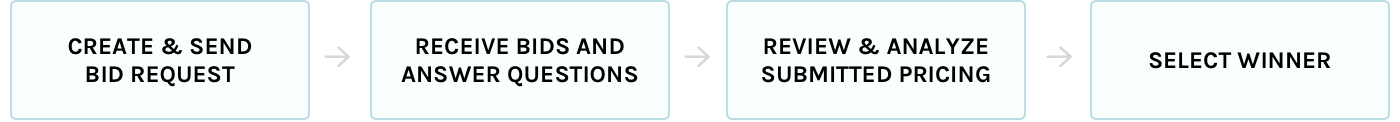
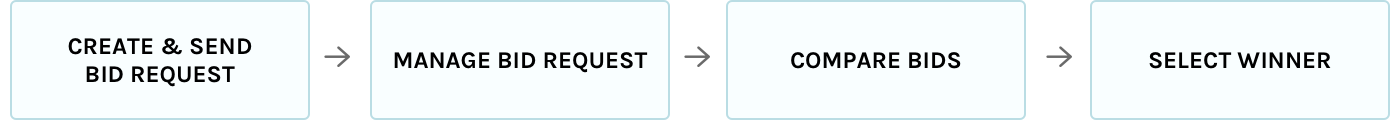
Copy

diff --git a/rigup.html b/rigup.html
@@ -8,7 +8,7 @@
 	<link rel="stylesheet" href="css/style.css">
 	<link rel="stylesheet" href="https://cdnjs.cloudflare.com/ajax/libs/animate.css/3.5.2/animate.min.css">
 	<link rel="stylesheet" href="css/font-awesome-4.6.3/css/font-awesome.min.css">
-	<link href="https://fonts.googleapis.com/css?family=Libre+Franklin:300,400,900" rel="stylesheet">
+	<link href="https://fonts.googleapis.com/css?family=Libre+Franklin:300,400,700,900" rel="stylesheet">
 </head>
 
 <body>
@@ -37,36 +37,51 @@
 
 		<div id="container">
 			<h3>Background</h3>
-			<p>RigUp is an oilfield services marketplace that connects engineers & vendors for an easier bidding process. I joined RigUp as the first designer and eventually led a small design team throughout the entire product development process.</p>
+										<img src="img/bidding/process.png">	
+			<p class="caption center">Entire Bidding Process</p>
+			<section><p>RigUp is an oilfield services marketplace that connects engineers & vendors for an easier bidding process. I joined RigUp as the first designer and eventually led a small design team throughout the entire product development process.</p>
+
 			<p>We were a small (but rapidly growing) company, which meant I had to wear a lot hats. I tackled everything from front-end implementation, conducting usability tests, and driving marketing and branding design.</p>
+			</section>
 
 			<a id="process"></a>
-			<h2>Bidding Process Redesign</h2>
+			<h2>Increased bid creation conversion rates</h2>
 
-			<h3>Problem</h3>
-			<!--<img src="img/bidding/process.png">-->	
-			<p>We noticed there was a downward trend in the amount of bid requests that were being sent out the past three months.</p>
-			<p>The initial bidding process was a 6 step wizard interface that was in need of a redesign. The UI was a result of technical and product debt; we were implementing MVP after MVP into the process without any design consideration.</p>
+			<h3>Background</h3>
+				<img src="img/bidding/old_process.png">	
+				<p class="caption center">Bid Creation Process</p>
+			
+			<section><p>The bidding process was in need of a redesign. The UX was a result of technical and product debt; we were implementing MVP after MVP into the process without any design consideration. 
+</p></section>
+<section>
 		
-		<img src="img/bidding/old_process.png"></div>
+			<h3>Problem</h3>
+			
+			<h2 class="center problem">The bid creation process <span class="strong">only had a 46.15% conversion rate.</span></h2> By identifying the highest dropoffs points, I was able to guide my research in where to investigate.</p>
+						<img src="img/bidding/funnel.png">
+							<p class="caption center">The initial steps had the highest dropoff rates.</p>
+</div>
 
 		<div id="container">
 			<h3>Research Insights</h3>
-			<p>Before diving deep into ideation, I wanted to conduct some research. Through usability testing sessions, talking with users and data analytics, I discovered a couple of insights about the bidding process.</p>
-			<ul>
-			<li class="strong">Heavy initial cognitive load</li>
-			<p>Step one is filled with many inputs and forms for a user to process all at once.</p>
-			<li class="strong">Low conversion rates</li>
-			<p>The process only had a 46.15% conversion rate. I identified the highest dropoffs points to help guide my research.</p>
-			<img src="img/bidding/funnel.png">
-			<li class="strong">Lack of context</li>
-			<p>The isolated step UI did not group the information intuitively; causing users to go back and forth between steps to reference information.</p>
-			</ul>
+			<p>Through usability testing sessions, talking with users and data analytics, I discovered a couple of insights about the bidding process.</p>
+	
+			<p class="strong">Heavy initial cognitive load</p>
+							<img src="img/bidding/step1_old.png">	
+														<p class="caption center">Step One</p>
+
+
+			<p>Step one was initially overwhelming - users were being confronted with many inputs. The majority of the testing session were spent on users reading through all the information before continuing to the rest of the process.</p>
+			<p class="strong">Lack of context</p>
+			<p>The isolated step UI did not group the information intuitively; which caused users to go back and forth between steps to reference information.</p>
+					<img src="img/bidding/cards.png"> 
+	<p class="caption center">Card Sorting Test</p>
+	<p>Through card sorting tests, I was able to better understand how users categorize the information.</p>
+		
 <section>
 	<h3>Ideation</h3>
-	<p>Due to a technical constraint, I couldn't change the functionality of the vendor selection - meaning it had to remain a separate step.
-		<img src="img/bidding/cards.png"> 
-		<img src="img/bidding/flow.png"> 
+	<p>Due to a technical constraint, I couldn't change the functionality of the vendor selection - meaning it had to remain a separate step. To overcome this tradeoff, I designed user flows that allowed the user to forego this step altogether.
+		<img src="img/bidding/flow.png">
 		<img src="img/bidding/ideate.png"> 
 
 </section>
@@ -100,8 +115,7 @@
 <section>
 <div id="container">
 <h3>Results</h3>
-<p>In the following month, the amount of bid requests remained about the same. However, the conversion rate increased to 85.66%.
-Two months after implementation, bid requests increased and we were on the right track to meeting our quarterly GMV goal. Additional unanticipated success included increased user retention and less usability questions asked to our customer support team about our bidding process.</p>
+<p>The conversion rate increased to 85.66%. Two months after implementation, bid requests increased and we were on the right track to meeting our quarterly GMV goal. Additional unanticipated success included increased user retention and less usability questions asked to our customer support team about our bidding process.</p>
 </div>
 
 <!--<section>
@@ -187,8 +201,20 @@ Two months after implementation, bid requests increased and we were on the right
 
 		<h3>Background</h3>
 		<p>I joined RigUp early on as their only designer, where shipping fast to validate ideas were priority. Creating a design language wasn’t critical at this stage, but a year later I was leading a design team, and our product had quickly reached a level of complexity where our design debt was affecting our efficiency.</p>
-		<p>We were wasting time creating existing interface components - leading to an inconsistent user experience and bloating our code base with redundancy.</p></div>
 
+		<h3>Problem</h3>
+		<p>We were wasting time creating existing interface components - leading to an inconsistent user experience and bloating our code base with redundancy.</p>
+
+		<h3>Goal</h3>
+		<p class="strong">Establish empathy</p>
+		<p>Having a unified understanding for rationale and intent makes it easier for cross-functional collaboration.</p>
+
+		<p class="strong">Designing with intent</p>
+		<p>When breaking away from an established pattern, we are prompted to question, "Why?" to ensure we're designing with intent.</p>
+
+		<p class="strong">Save time and money</p>
+		<p>Having consistent, reusable, and maintanable components allows us to design and develop quicker, as well as spend less time recreating patterns we do not need to reinvent.</p>
+</div>
 			<div class="full-width">
 		<img src="img/bidding/pl.png">
 	</div>				<div id="container">

diff --git a/css/style.css b/css/style.css
@@ -63,6 +63,10 @@ p {
   text-align: center;
 }
 
+.gray {
+  color: gray;
+}
+
 .quote {
   font-size: 23px;
   padding: 25px;
@@ -71,7 +75,7 @@ p {
   line-height: 1.7em;
 }
 .strong {
-  font-weight: 900;
+  font-weight: 700;
 }
 
 .emphasis {
@@ -422,6 +426,12 @@ section {
 
 .hide {
   display: none !important;
+}
+
+.problem {
+  background-color: #F9FEFF;
+  border: 1px solid #BADDE4;
+  padding: 40px;
 }
 
 /* Back to Top */
